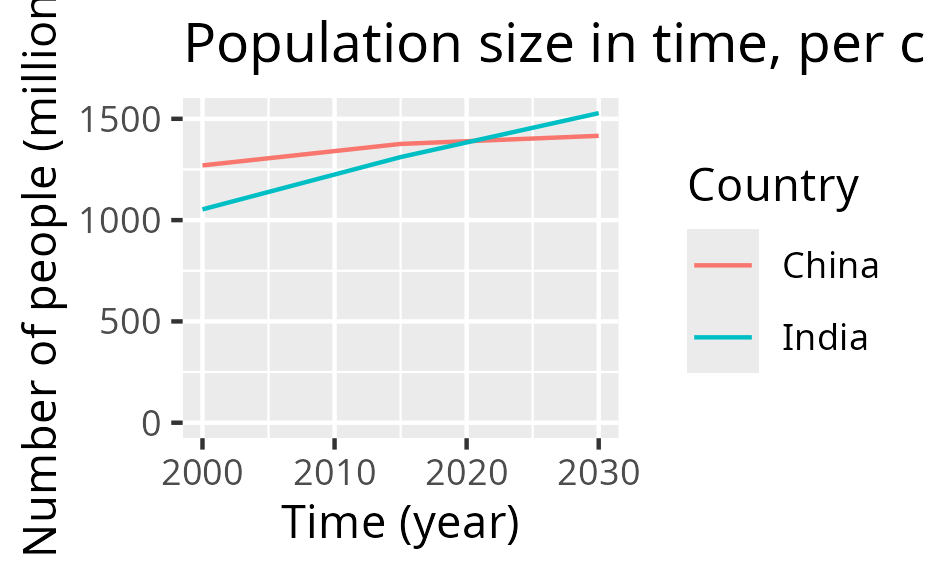
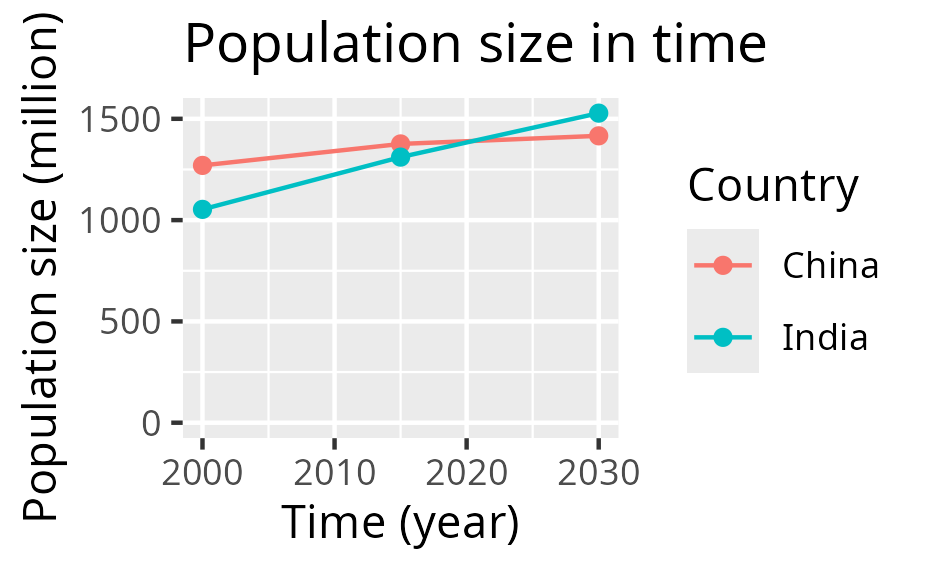
Improve

diff --git a/docs/introduction_2/README.md b/docs/introduction_2/README.md
@@ -166,12 +166,13 @@ You can refine it in many ways:
 
 For example, in R:
 
-```
+```R
 ggplot(t, aes(x = t, y = n, color = country)) +
   geom_line() +
+  geom_point() +
   scale_x_continuous("Time (year)") +
-  scale_y_continuous("Number of people (million)", limits = c(0, NA)) +
-  labs(title = "Population size in time, per country", color = "Country")
+  scale_y_continuous("Population size (million)", limits = c(0, NA)) +
+  labs(title = "Population size in time", color = "Country")
 ```
 
 Now the plot has proper labels:
